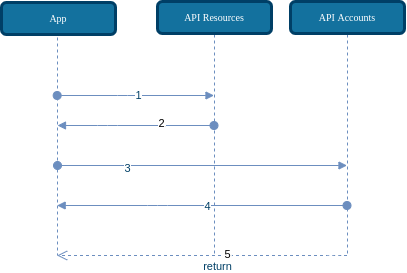
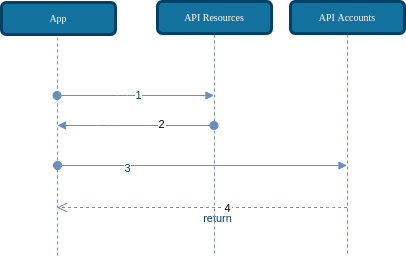
Correção do /authorise

diff --git a/consents.md b/consents.md
@@ -33,7 +33,7 @@ scope=consents
 
 ```
 
-* O resultado dessa requisição é o *token*, que deve ser utulizado já na requisição para a API de *Consents*.
+* O resultado dessa requisição é o *token*, que deve ser utilizado já na requisição para a API de *Consents*.
 
 ``` http
 POST /consents HTTP/1.1
@@ -66,14 +66,14 @@ Location: /consents/5a35c3eb-c137-4271-8fe8-00b790453ade
 
 ```
 
-* Com o ID do consentimento, agora deve-se requisitar o *Access Token* que irá permitir com que a aplicação da instituição receptora consiga acessar os dados das APIs.
+* Com o ID do consentimento, agora deve-se requisitar o *Access Token* que irá permitir com que a aplicação da instituição receptora consiga acessar os dados das APIs, enviando a requisição para o *Authorisation Server* com um objeto JWT contendo este ID do consentimento e *scopes* de acesso
 
 ``` http 
-POST /authorise
+GET /authorise?request=objectjwtpookdsfpmcieq-p0ok...
 Host: api.banco.exemplo
-Content-Type:  application/json
 "..."
 
+// conteudo de exemplo do JWT enviado
 {
     "..."
     "scope": "openid resources accounts",
@@ -87,8 +87,7 @@ Content-Type:  application/json
 | consentId | scope | resourceId (accountId) |
 |---|---|---|
 | 5a35c3eb-c137-4271-8fe8-00b790453ade | accounts | 0577979c-6db7-49da-a04f-dc4822ad9e64 |
-| 5a35c3eb-c137-4271-8fe8-00b790453ade | accounts | e5f4ac9c-87a0-403f-aef2-3e4f5977d118
-|
+| 5a35c3eb-c137-4271-8fe8-00b790453ade | accounts | e5f4ac9c-87a0-403f-aef2-3e4f5977d118|
 
 * Assim que o usuário inserir quais itens ele irá compartilhar (neste exemplo, quais contas pré-pagas), o fluxo OAuth segue normalmente. 
 
